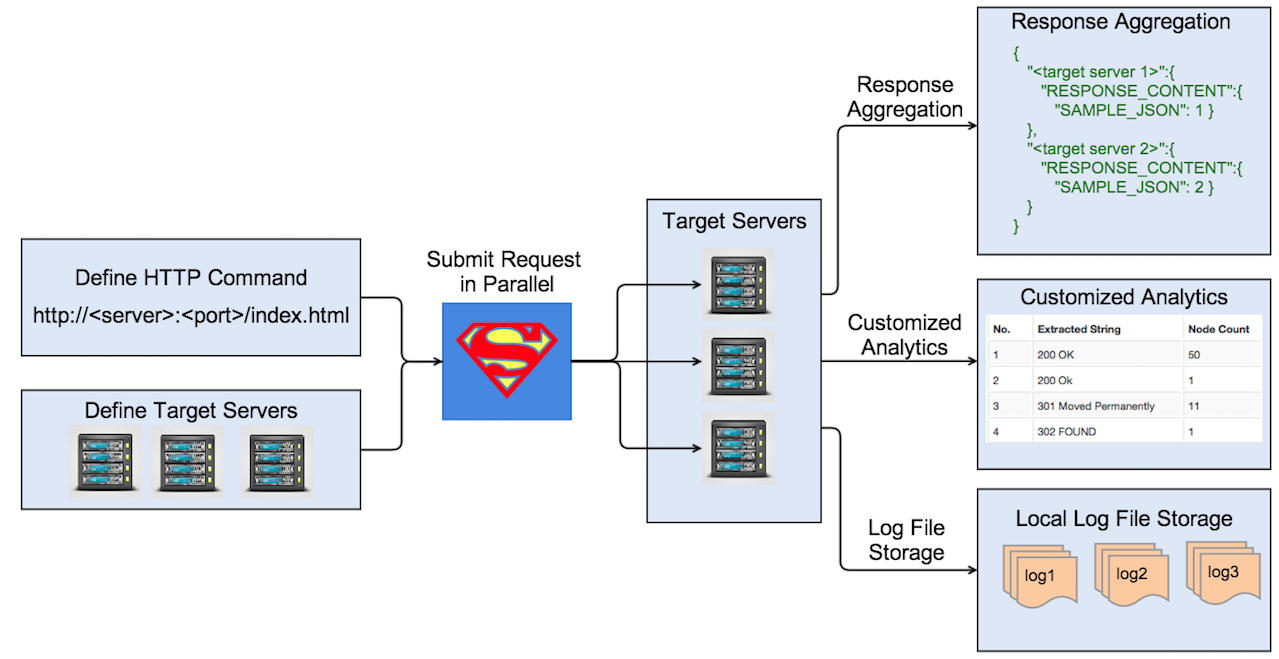
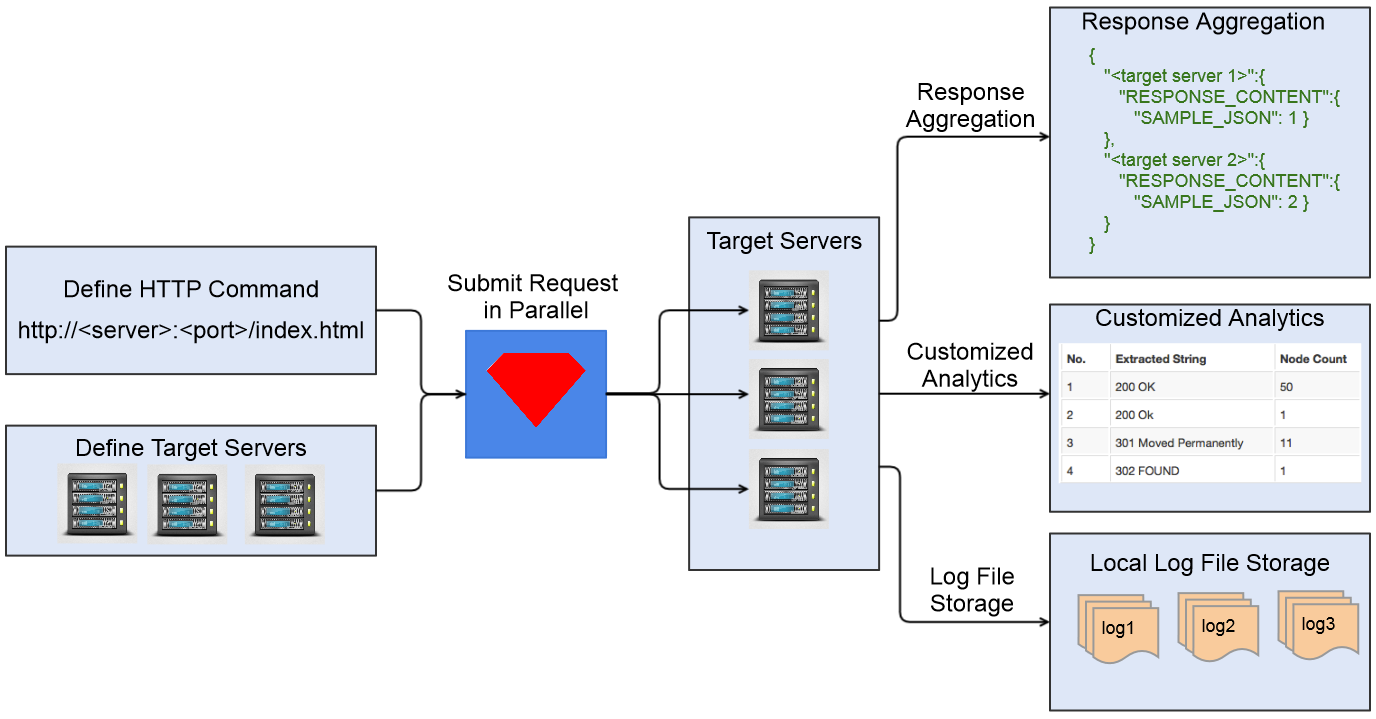
start rebranding

Changed region(s): [[0.0, 0.0, 1.0, 1.0], [0.0, 0.5766, 0.2439, 0.7891], [0.6403, 0.5463, 0.6708, 0.5766]]

diff --git a/README.md b/README.md
@@ -1,14 +1,19 @@
-[REST Superman](http://www.restsuperman.com): Parallel Async HTTP Client as a Service
+[REST Commander](http://www.restsuperman.com): Parallel Async HTTP Client as a Service
 ===========
-Please check latest details about REST Superman at [www.restsuperman.com](http://www.restsuperman.com) and its [introduction video](http://www.youtube.com/watch?v=nMFhXxyE0EE). 
+
+**Formerly known as REST Superman**
+
+**[NOTICE - NEW NAME, SAME CODE and SUPER POWER]**: Due to the attracted attention and increased popularity, our legal department further inspected the project and would like a minor change on the naming and some logo. Therefore, we now change the new name of the project to be **REST Commander**. We will ensure a smooth transition. No worry, all the code and functions will remain the same. 2014/01/23
+
+Please check latest details about REST Commander at [www.restsuperman.com](http://www.restsuperman.com) and its [introduction video](http://www.youtube.com/watch?v=nMFhXxyE0EE). 
 
 ![Structure Overview](https://github.com/ebay/restsuperman/raw/master/AgentMaster/public/images/workflow_v3.png)
 
-###What is REST Superman and Why I need it?
+###What is REST Commander and Why I need it?
 
-Superman is [Postman](http://www.getpostman.com) at scale: a fast parallel async http client as a service with aggregated response and regular expression based string extraction. It is in Java (with AKKA and Play Framework).
+Commander is [Postman](http://www.getpostman.com) at scale: a fast parallel async http client as a service with aggregated response and regular expression based string extraction. It is in Java (with AKKA and Play Framework).
 
-So what can Superman do?  It speaks HTTP in scale, thus is powerful with [many use cases](http://www.restsuperman.com/usecase.html). Here are some basic ones for automation on managing and monitoring tens of thousands web servers (See [Sample Code](http://www.restsuperman.com/monitoring-sample.html)):
+So what can Commander do?  It speaks HTTP in scale, thus is powerful with [many use cases](http://www.restsuperman.com/usecase.html). Here are some basic ones for automation on managing and monitoring tens of thousands web servers (See [Sample Code](http://www.restsuperman.com/monitoring-sample.html)):
 
 * **Monitor HTTP web servers**:  are you a company who have 50-5,000 web servers (e.g. tomcat, nginx, etc... ) running;  and want to check every minute which servers are slow or misconfigured? Superman can get this done for you in an hour.
 * **Config push to HTTP web servers**: If your servers use REST/SOAP APIs to update its config and you want to enforce server-specific or uniform config on demand or with auto-remediation. Superman is your perfect choice.  
@@ -73,7 +78,7 @@ Key files are under *conf* folder
 
 
 
-### About REST-Superman
+### About REST-Commander
 
 ####Motivation: 
 
